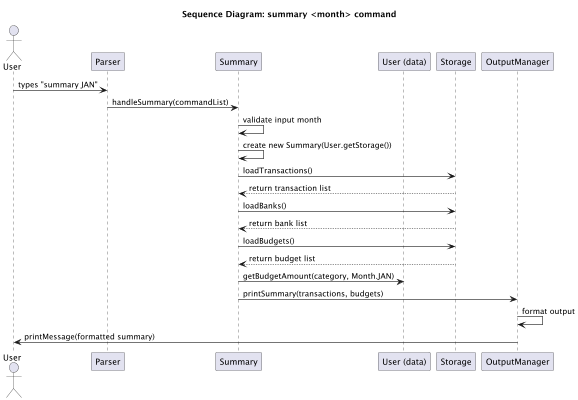
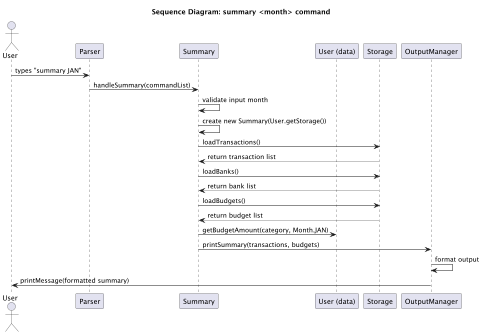
Update DeveloperGuide
- Fix logic for delete Command
- Change image scale
- Fix puml logic

diff --git a/docs/DeveloperGuide.md b/docs/DeveloperGuide.md
@@ -73,7 +73,7 @@ The showMonthlySummary("JAN") method is then called, which filters transactions 
 The computed totals are passed to OutputManager.printSummary() to format the output, followed by OutputManager.printMessage() to display the results to the user.
 
 
-The following sequence diagram shows how the summary command goes through the relevant components to display the output to the user.
+The following sequence diagram shows how the summary command goes through the relevant components to display the output to the user.  
 ![img_2.png](team/SummaryFeature/img_2.png)
 
 The following activity diagram summarises what happens when the user executes summary JAN  
@@ -83,8 +83,9 @@ The following activity diagram summarises what happens when the user executes su
 
 #### Delete Transaction Feature
 The DeleteTransaction feature allows users to remove a specific transaction from their financial record.
-This command improves user flexibility by enabling correction of mistakes or removal of outdated records.
-The command follows the syntax:
+This command improves user flexibility by enabling correction of mistakes or removal of outdated records.  
+**Note**: The user must be logged into a bank account to use this command.
+The command follows the syntax:  
 
 `delete <transaction-id>`
 
@@ -101,12 +102,17 @@ Given below is an example usage scenario and how the delete mechanism behaves at
 The user starts the program, and all previously saved transactions are 
 loaded from `transactions.txt` into memory by the `Storage` class.
 
-**Step 2: The user executes the delete command**  
-The user enters: `delete 2`. The Parser identifies `delete` as the command word 
-and passes control to the `DeleteTransactionCommand`, with `2` as the argument.
+**Step 2: The user logs into a bank account**
+The user executes the `login INDEX` command to select a bank account.
+All subsequent bank-specific commands, such as `delete`, will operate on this account.
 
-**Step 3: The command validates the input**    
-`DeleteTransactionCommand`  checks that: 
+**Step 3: The user executes the delete command**  
+The user enters: `delete 2`. The Parser identifies `delete` as the command word and checks if the user is logged in.
+If logged in, control is passed to the `DeleteTransactionCommand`, with `2` as the argument. 
+Otherwise, a `FinanceException` is thrown: `"Please login to a bank to execute this command."`
+
+**Step 4: The command validates the input**    
+`DeleteTransactionCommand` checks that: 
 - Only one argument is inputted
 - The argument is a valid integer. 
 - The transaction list is not empty.
@@ -115,8 +121,8 @@ If validation passes, execution proceeds.
 Otherwise, a FinanceException is thrown, e.g.:  
 `Error deleting transaction: Usage: delete <transaction_index>`
 
-**Step 4: The transaction is deleted**  
-DeleteTransactionCommand calls: `User.deleteTransaction(index)`  
+**Step 5: The transaction is deleted**  
+DeleteTransactionCommand calls: `User.deleteTransaction(index)` on the currently logged-in bank account.  
 This method removes the transaction at index 2 from the user’s list. 
 It then overwrites `transactions.txt` with the updated list, ensuring persistence across sessions. 
 At the same time, The user interface then prints: `"Deleted transaction: ..."`
